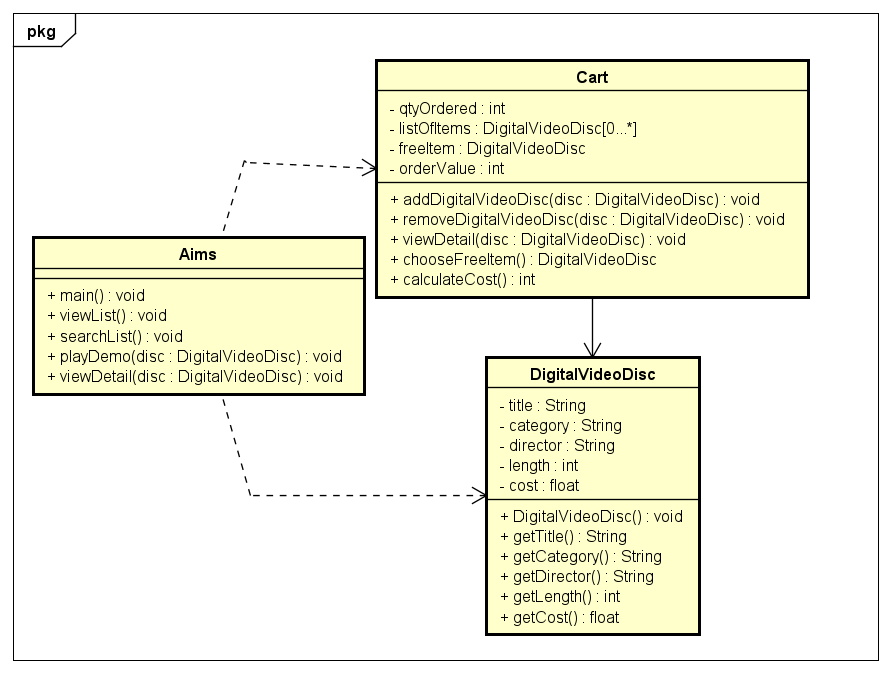
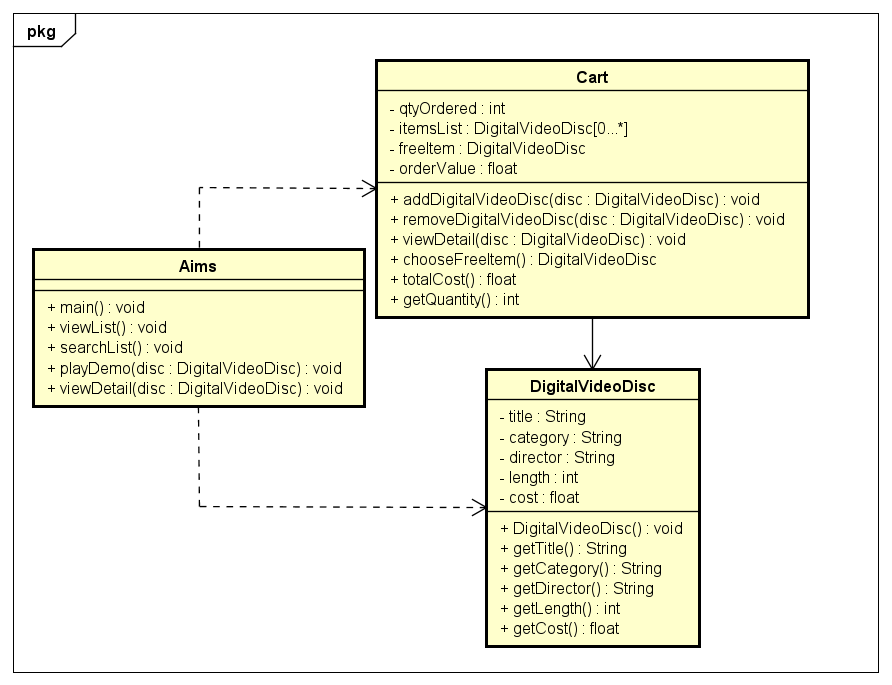
hw

diff --git a/Lab02/AimsProject/src/Cart.java b/Lab02/AimsProject/src/Cart.java
@@ -3,9 +3,12 @@ public class Cart {
 	private ArrayList<DigitalVideoDisc> itemsList;
 	private int qtyOrdered;
 	
+	public Cart() {
+		itemsList = new ArrayList<>();
+		qtyOrdered = 0;
+	}
+	
 	public static final int MAX_NUMBERS_ORDERED = 20;
-	private DigitalVideoDisc itemsOrdered[] = 
-			new DigitalVideoDisc[MAX_NUMBERS_ORDERED];
 	
 	public void addDigitalVideoDisc(DigitalVideoDisc disc) {
 		if (qtyOrdered < MAX_NUMBERS_ORDERED) {
@@ -28,11 +31,15 @@ public class Cart {
 		}
 	}
 	
-	public int totalCost() {
-		int cost = 0;
+	public float totalCost() {
+		float cost = 0;
 		for (int i = 0; i < qtyOrdered; i++) {
 			cost += itemsList.get(i).getCost();
 		}
 		return cost;
+	}
+	
+	public int getQuantity() {
+		return qtyOrdered;
 	}
 }

diff --git a/Lab02/AimsProject/src/Aims.java b/Lab02/AimsProject/src/Aims.java
@@ -14,8 +14,19 @@ public class Aims {
 		 DigitalVideoDisc dvd3 = new DigitalVideoDisc("Aladin", "Animation", 18.99f);
 		 anOrder.addDigitalVideoDisc(dvd3);
 		 
-		 System.out.println("Total cost is: ");
+		 System.out.print("Total cost is: ");
 		 System.out.println(anOrder.totalCost());
+		 
+		 anOrder.removeDigitalVideoDisc(dvd3);
+		 
+		 DigitalVideoDisc dvd4 = new DigitalVideoDisc("Reservoir Dogs", "Thriller", 24.99f);
+		 anOrder.removeDigitalVideoDisc(dvd4);
+		 
+		 System.out.print("Total cost is: ");
+		 System.out.println(anOrder.totalCost());
+		 
+		 System.out.print("Number of items in cart is: ");
+		 System.out.println(anOrder.getQuantity());
 	}
 
 }
